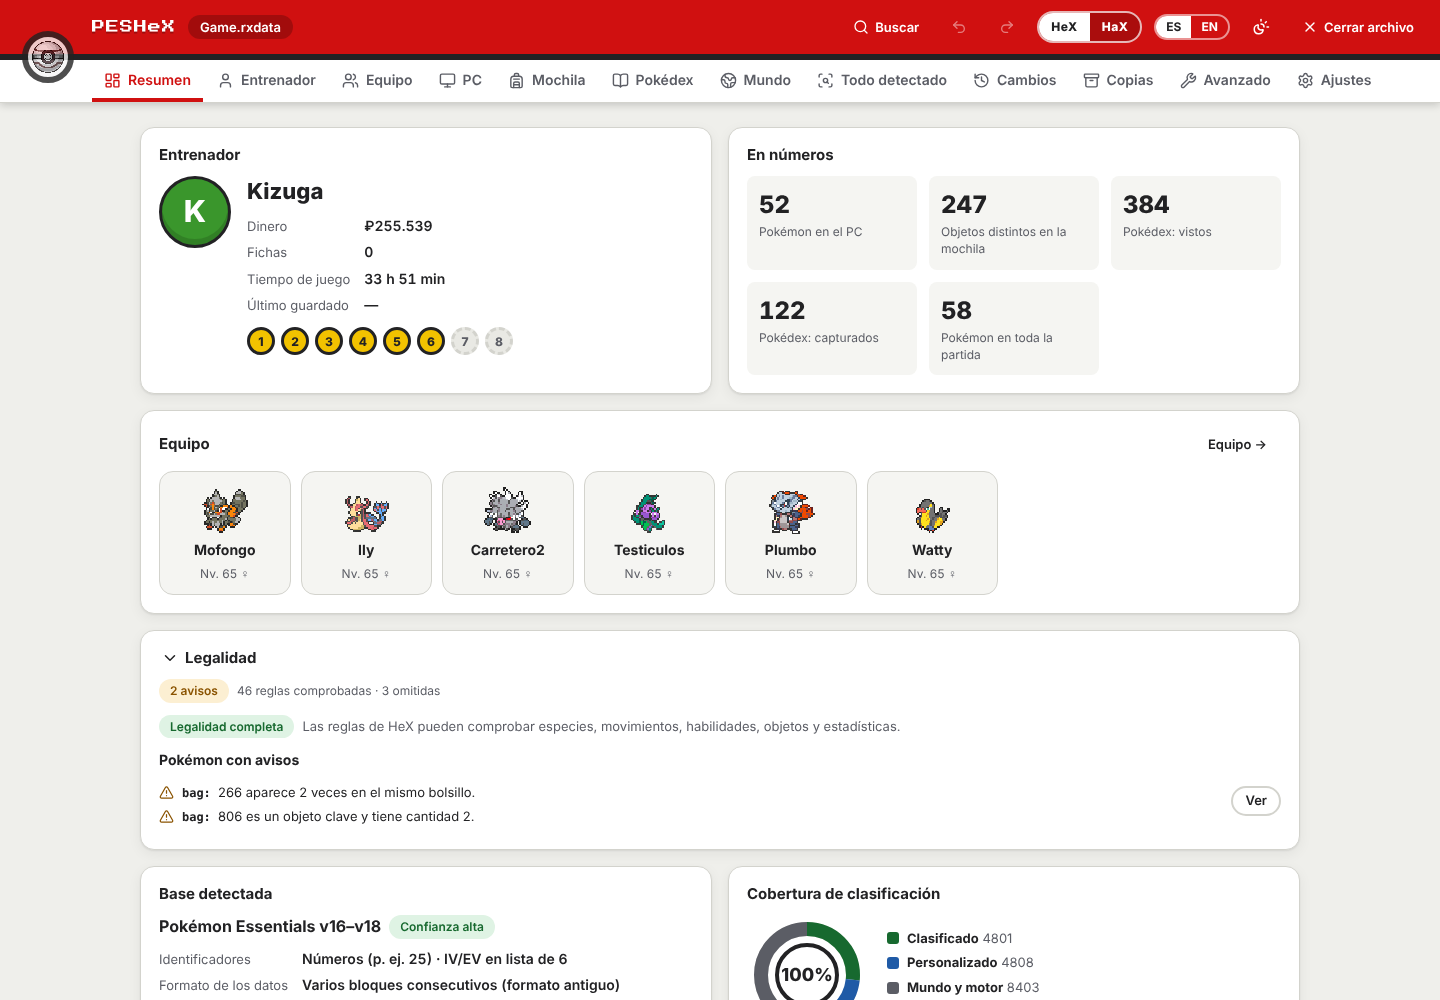
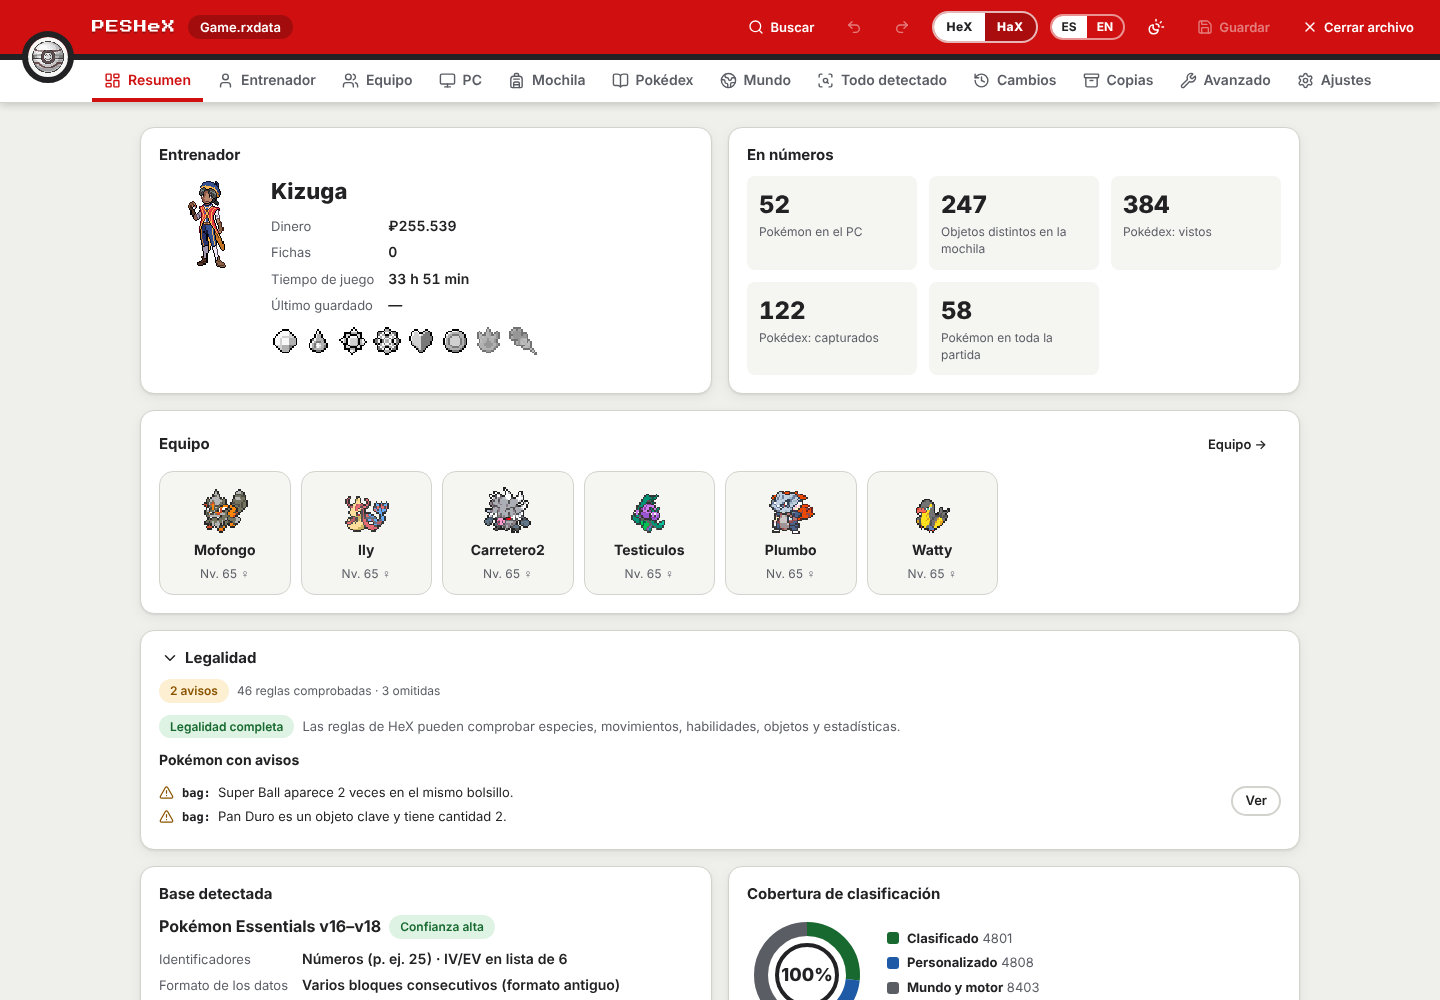
docs: capturas del README actualizadas (ficha fija, estadísticas actuales y selector de movimientos con íconos) sin la escala automática

diff --git a/e2e/support/harness.ts b/e2e/support/harness.ts
@@ -48,24 +48,28 @@ export interface Env {
   window: ZoomEmulator;
   /** Deja salir el aviso de "agregar la carpeta del juego" al abrir (por defecto se silencia). */
   gamePrompt: boolean;
+  /** Zoom manual fijo (en %) en vez del automático (lo usan las capturas del README). */
+  manualZoom?: number;
 }
 
 /** Marca «No volver a preguntar» para `savePath` antes de cargar la app (el aviso no estorba a las pruebas que no lo ejercitan).
  *  Los ajustes se guardan en versión 2 a propósito: la migración a la 3 da por hecho el asistente del primer arranque, y el
  *  zoom queda en automático (el valor por defecto). `lang` fija el idioma (el por defecto de la app es el español). */
-export async function silenceGamePrompt(page: Page, savePath: string | null, lang: "es" | "en" = "es") {
+export async function silenceGamePrompt(page: Page, savePath: string | null, lang: "es" | "en" = "es", manualZoom?: number) {
   await page.addInitScript(
-    ([p, l]) => {
-      localStorage.setItem("peshex-settings", JSON.stringify({ state: { ...(p ? { noGamePrompt: { [p]: true } } : {}), lang: l }, version: 2 }));
+    ([p, l, z]) => {
+      // Con `manualZoom` los ajustes se guardan ya en la versión 3: zoom manual fijo (las capturas del README no usan la escala automática).
+      const state = { ...(p ? { noGamePrompt: { [p]: true } } : {}), lang: l, ...(z ? { firstRunDone: true, zoomMode: "manual", zoom: z } : {}) };
+      localStorage.setItem("peshex-settings", JSON.stringify({ state, version: z ? 3 : 2 }));
     },
-    [savePath, lang] as const,
+    [savePath, lang, manualZoom ?? 0] as const,
   );
 }
 
 /** Prepara la pagina con el puente al driver real y una COPIA del save (nunca se toca test_saves/).
  *  Por defecto se marca «No volver a preguntar» para esa partida: el aviso de "agregar la carpeta del juego" que sale
  *  al abrir un save sin carpeta no estorba a las pruebas que no lo ejercitan (`gamePrompt: true` lo deja salir). */
-export async function setup(page: Page, save = "Partida_2.rxdata", opts: { gamePrompt?: boolean } = {}): Promise<Env> {
+export async function setup(page: Page, save = "Partida_2.rxdata", opts: { gamePrompt?: boolean; manualZoom?: number } = {}): Promise<Env> {
   fs.mkdirSync(SHOTS, { recursive: true });
   const workDir = fs.mkdtempSync(path.join(os.tmpdir(), "peshex-e2e-"));
   const savePath = path.join(workDir, save);
@@ -79,7 +83,7 @@ export async function setup(page: Page, save = "Partida_2.rxdata", opts: { gameP
   // Si la página ya se cerró (el último ajuste de zoom llega tarde), se ignora el fallo.
   bridge.emit = (event, payload) => page.evaluate(([e, p]) => (window as unknown as { __pwEmit?: (e: string, p: unknown) => void }).__pwEmit?.(e, p), [event, payload] as const).catch(() => undefined);
   bridge.onZoom = (z) => void window.setZoom(z).catch(() => undefined);
-  return { bridge, workDir, savePath, window, gamePrompt: !!opts.gamePrompt };
+  return { bridge, workDir, savePath, window, gamePrompt: !!opts.gamePrompt, manualZoom: opts.manualZoom };
 }
 
 export async function teardown(env: Env | undefined) {
@@ -94,7 +98,7 @@ export async function openSave(page: Page, env: Env, lang: "es" | "en" = "es", e
     Object.defineProperty(navigator, "language", { get: () => (l === "es" ? "es-ES" : "en-US") });
   }, lang);
   // Con `gamePrompt` el aviso de la carpeta del juego sale; el asistente del primer arranque y el idioma se fijan siempre.
-  await silenceGamePrompt(page, env.gamePrompt ? null : env.bridge.dialogPath, lang);
+  await silenceGamePrompt(page, env.gamePrompt ? null : env.bridge.dialogPath, lang, env.manualZoom);
   await page.goto("/");
   await page.getByRole("button", { name: lang === "es" ? "Abrir partida…" : "Open save…" }).click();
   await expect(page.getByText(expected).first()).toBeVisible({ timeout: 20_000 });

diff --git a/e2e/docs.spec.ts b/e2e/docs.spec.ts
@@ -39,7 +39,7 @@ test("capturas del README con la carpeta del juego analizada", async ({ page }) 
   };
   const nav = (name: string) => page.getByRole("button", { name, exact: true }).click();
 
-  env = await setup(page, DEMO.save);
+  env = await setup(page, DEMO.save, { manualZoom: 100 }); // zoom fijo al 100 %: la escala automática no entra en las capturas
   await serveGameAssets(page);
   await page.setViewportSize({ width: 1440, height: 1000 });
 
@@ -100,6 +100,15 @@ test("capturas del README con la carpeta del juego analizada", async ({ page }) 
   await expect(drawer.getByText(/Poder oculto/).first()).toBeVisible();
   await page.setViewportSize({ width: 1440, height: 1180 });
   await shot("editor");
+  // Estadísticas actuales: barra apilada por colores (base y nivel, IV, EV, naturaleza) con el tooltip de un tramo
+  await drawer.getByRole("radio", { name: "Estadísticas actuales" }).click();
+  const meters = drawer.getByTestId("base-stats").getByRole("meter");
+  await expect(meters).toHaveCount(6);
+  await meters.nth(4).locator("> *").nth(2).hover(); // At. Esp.: con 252 EV el tercer tramo (EV, naranja) es grande
+  await expect(page.getByRole("tooltip")).toBeVisible();
+  await page.waitForTimeout(300);
+  await page.screenshot({ path: path.join(OUT, "editor-stats.png"), clip: { x: 610, y: 0, width: 830, height: 380 } });
+  await drawer.getByRole("radio", { name: "Estadísticas base en este juego" }).click(); // la preferencia se recuerda: se deja como estaba
   await page.setViewportSize({ width: 1440, height: 1000 });
   await page.keyboard.press("Escape");
 

diff --git a/README.md b/README.md
@@ -68,6 +68,9 @@ principales; la tabla del final resume el resto.
   <img src="docs/screenshots/editor.png" alt="Hoja de edición ancha con los stats base de la especie, deslizadores de IV y Poder oculto" width="100%" />
 </p>
 <p align="center">
+  <img src="docs/screenshots/editor-stats.png" alt="Ficha fija del Pokémon con las estadísticas actuales en barras apiladas: base y nivel en rojo, IV en azul, EV en naranja y naturaleza en verde, con el tooltip de un tramo" width="100%" />
+</p>
+<p align="center">
   <img src="docs/screenshots/editor-movimientos.png" alt="Selector de movimientos con todos los movimientos del juego, su tipo, potencia, PP e ícono de categoría" width="100%" />
 </p>
 
